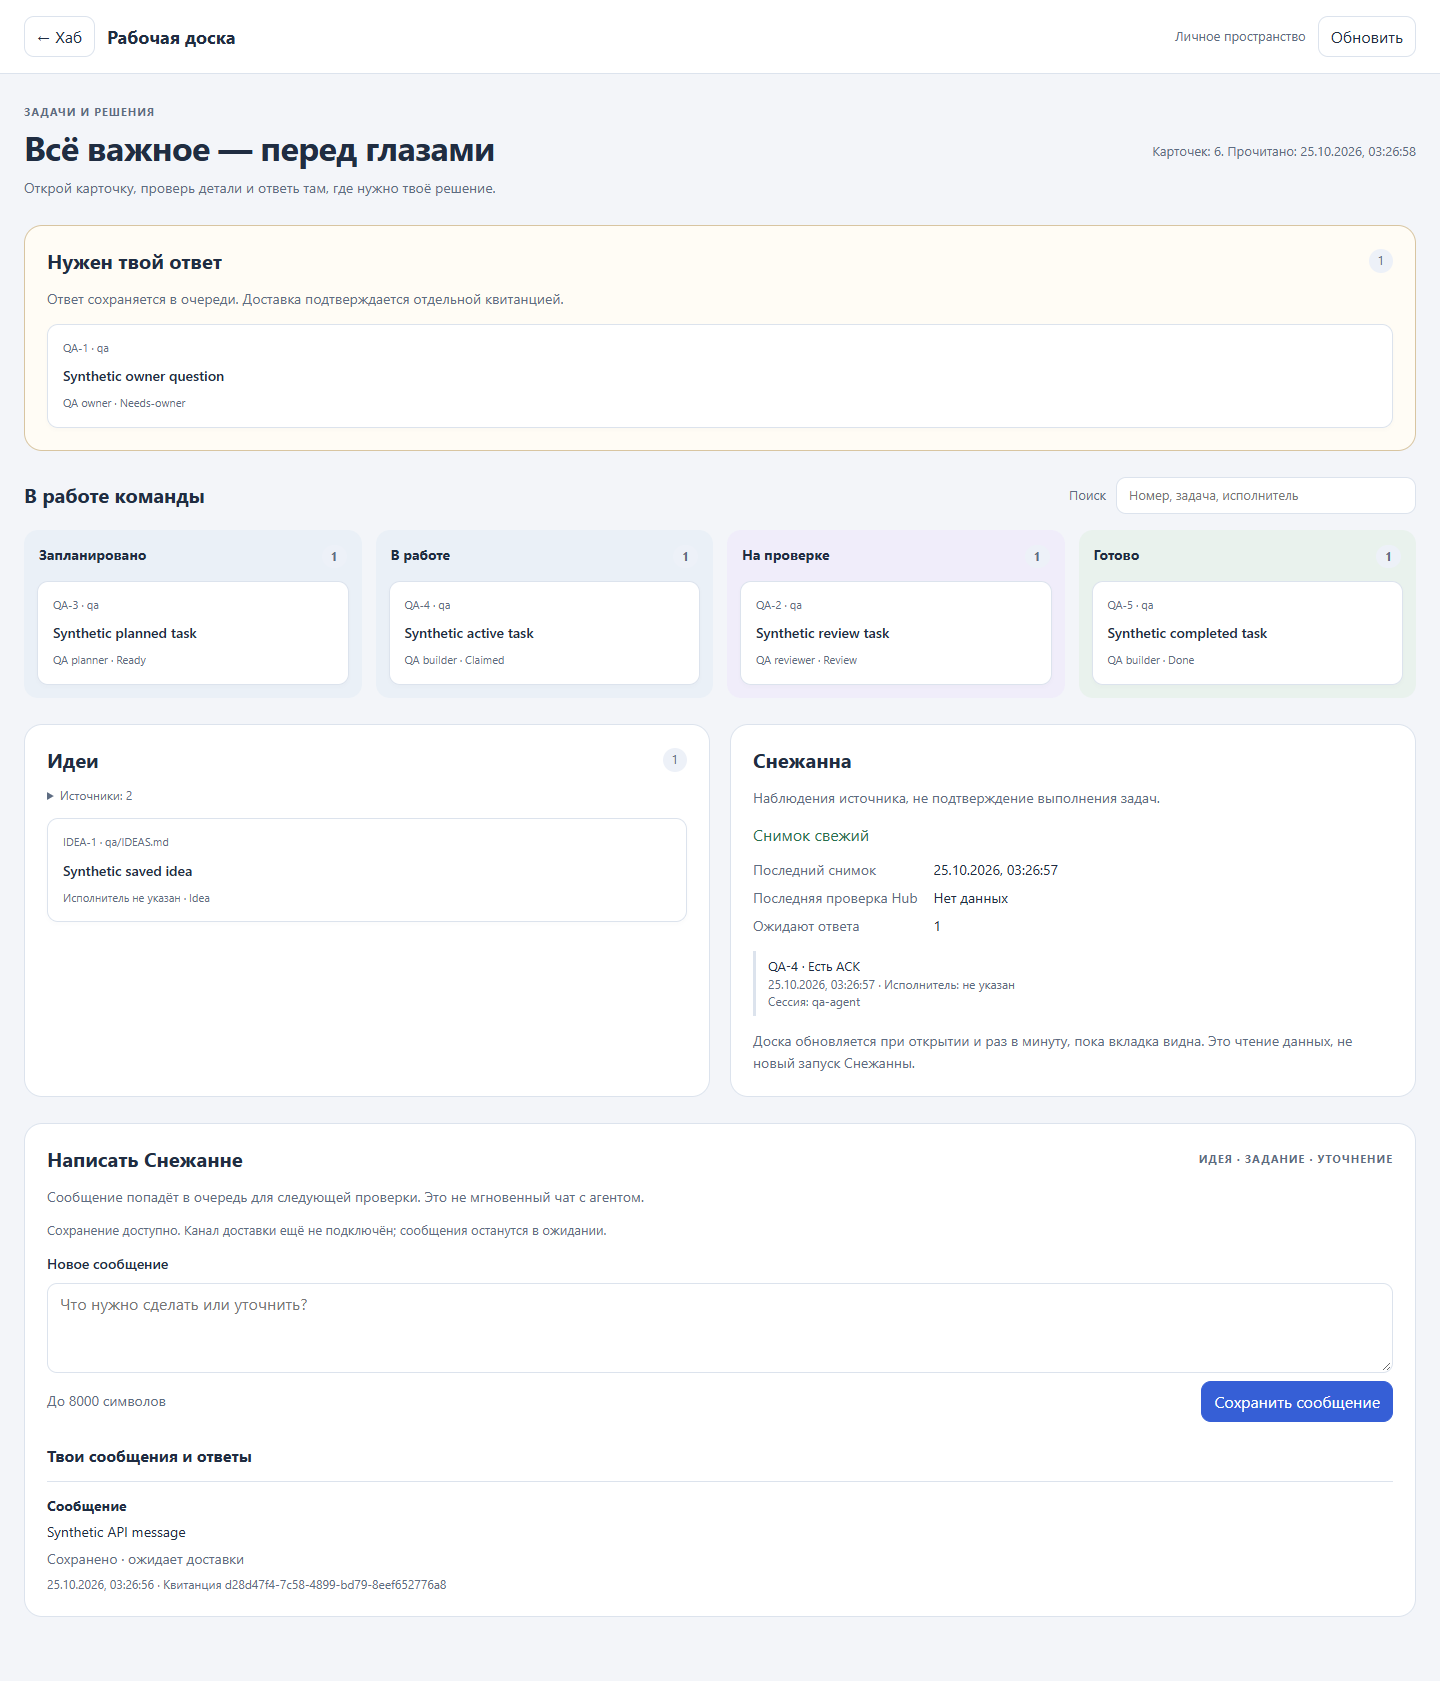
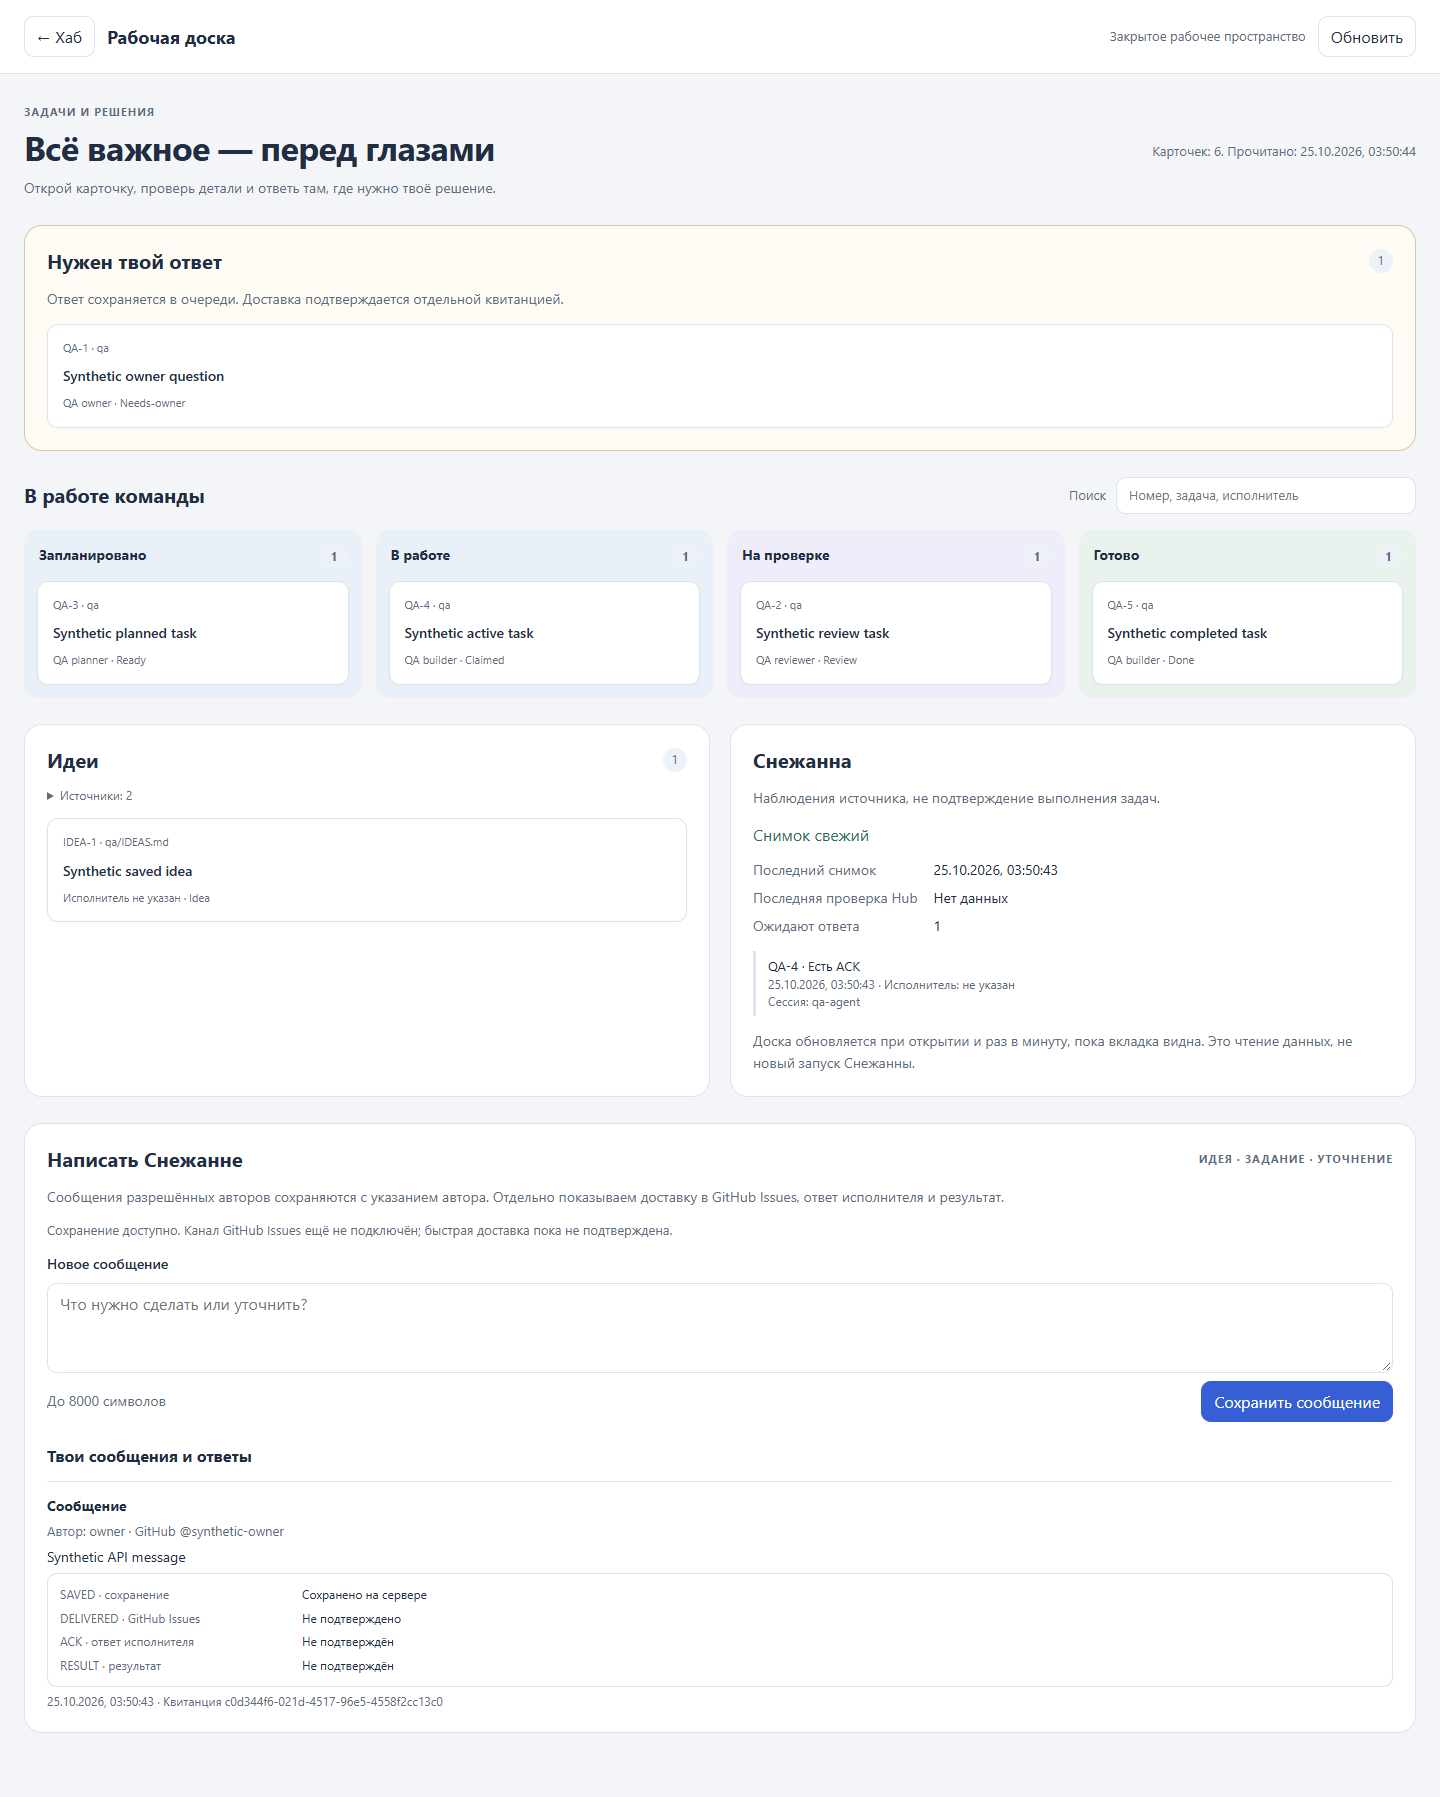
test: verify canonical Issues delivery and two-author isolation

diff --git a/docs/hub/QA.md b/docs/hub/QA.md
@@ -1,6 +1,57 @@
 # Independent Hub acceptance evidence
 
-Date: 2026-10-25. Reviewer: the dedicated QA subagent, separate from UI, ingestion, outbox and adapter authors. Product code tested through `3dfdfbf` (including the persisted outbox/route contract correction), with the harness committed as `281a2ea`. Root independently reran that browser harness at `281a2ea`: 14/14 checkpoints passed, and its refreshed synthetic screenshots are included in the following evidence commit. No production deployment or migration was performed by these QA runs.
+Date: 2026-10-25. Reviewer: the dedicated QA subagent, separate from UI, ingestion, outbox and adapter authors. Current canonical Issues implementation tested through `e49933a`: **22/22 independent browser acceptance checkpoints passed**. No production deployment, migration or real GitHub Issues write was performed by this QA run. Historical 14-check baseline evidence is retained below and does not supersede the current Issues contract.
+
+## Current canonical Issues acceptance
+
+The expanded harness uses actual `worker.fetch(request, env, ctx)`, real SQLite with migrations 0001/0002/0003, and actual server-side Issues delivery code scheduled through `ctx.waitUntil`. Only the GitHub wire responses are synthetic. Both authors are explicitly mapped by stable synthetic Hub user ID, username and GitHub login. A third account remains denied even when the legacy owner list contains its username. No real owner mapping is inferred or deployed.
+
+The synthetic GitHub fixture verifies new issue POSTs contain only the existing `idea` label, with no worker assignment or ready/execution label. Answers create comments on the configured existing task issue and leave its worker/cloud-state labels untouched. Delivery requires a separate exact readback. SAVED, DELIVERED, ACK and RESULT remain distinct; neither an Issue receipt nor a legacy Markdown receipt establishes an agent ACK/result.
+
+```text
+node --experimental-sqlite tests/hub-acceptance-browser.cjs
+PASS owner privacy before any source read
+PASS CSRF and payload validation
+PASS durable idempotency, conflict and owner isolation
+PASS two explicit stable-ID authors are attributed immutably; legacy third user and forged author denied
+PASS actual Worker ingestion renders board, review and historical ideas
+PASS modal focus, Escape and browser back
+PASS owner answer persisted in actual SQLite and shown after browser reload
+PASS mini-chat persistence/reload and owner text XSS safety
+PASS lost POST response retries same immutable id without duplicate SQL record
+PASS source version conflict does not overwrite or enqueue stale answer
+PASS UI keeps conflicting draft and accepts it only after fresh context reopening
+PASS actual Worker waitUntil delivers synthetic Issue comment; stale CAS and legacy blob cannot claim Issues delivery or ACK
+PASS saved state appears before background flush; bounded GET polling displays idea-only delivery without execution or ACK
+MEASURE natural-clock local synthetic click-to-visible-Issues-receipt 1467ms; no browser clock installed/advanced; NOT live GitHub latency
+PASS natural browser timer shows receipt within 10s with one POST and unknown ACK/result
+PASS second mapped author delivers under stored attribution and cannot read the first author queue
+PASS failure before GitHub write stays durable; visible Retry preserves original key and delivers once
+PASS expired durable intent reconciles accepted timeout under four concurrent leases without second GitHub POST
+PASS negative reconciliation is not proof of failed create: absent ambiguous issue stays durable with no repeat POST
+PASS definite remote conflict is persisted as conflict and never overwrites another edit or repeats POST
+PASS visible-tab periodic update and honest source-error/stale-telemetry states
+PASS 390px mobile layout and modal fit without horizontal overflow
+PASS authorization loss clears board/outbox/telemetry and rejects delayed private response
+RESULT 22 passed; synthetic GitHub only; browser board requests 12
+```
+
+The **1467ms** measurement uses a separate browser context without clock instrumentation and includes the natural one-second foreground polling delay. It measures the local synthetic path only. Another scenario advances a simulated clock to test polling deterministically; its wall execution duration is explicitly diagnostic and is not user-perceived or live latency. Neither number measures Cloudflare or real GitHub network latency.
+
+The latest subpath traversal still passed **63/63**, including the revised explicit GitHub Issues not-configured state. CI runs the expanded harness through its existing acceptance command; the new `hub-acceptance-issues-fixture.cjs` never contacts GitHub.
+
+Independent review found two further security/state issues, both corrected by the implementation owners and verified in this harness:
+
+- An explicit author map originally fell through to the legacy username allowlist for unmatched users. Explicit mapping is now authoritative and requires both stable ID and username; stale third users and forged author fields are denied.
+- A definite remote body/destination conflict originally returned `conflict` but persisted `delivery_uncertain`. The persisted state now remains `conflict`, retains its delivery intent and is not automatically reclaimed. Genuine timeouts and absent-marker reconciliation remain uncertain and never authorize a second POST.
+
+The real SQLite race test starts four competing flushes after a simulated lease expiration and confirms one reconciliation winner with only the original GitHub POST. A create that may not have arrived is deliberately **not** resent after negative reads. The visible Retry button submits the original persisted idempotency key and payload; it does not fabricate a new message ID. Confirmed delivery and conflicts do not expose that retry action.
+
+[Synthetic Issues receipt with second-author attribution and unknown ACK/result](../../artifacts/hub/issues-receipt.png)
+
+## Historical baseline
+
+Product code was initially tested through `3dfdfbf`, with the first harness committed as `281a2ea`. Root independently reran that 14-check baseline. Its receipt-import scenario was a local Markdown proof only; it is retained as historical evidence and is now explicitly rejected as canonical Issues delivery by the expanded test.
 
 ## Environment and proof boundary
 
@@ -78,7 +129,7 @@ The CI workflow now runs the UI contract and the actual-Worker browser acceptanc
 
 ## Remaining acceptance dependencies
 
-Production authenticated UI, approved D1 migration/rollout, the outbox extraction and receipt-import transport for the existing scheduled writer, routing to the correct existing executor, and a live executor ACK are not covered by this report. No timer, Claude/Doctor session, production security setting, secret or token permission was changed. Any separate live GitHub CAS experiment must be reported as that distinct leg, not as full browser-to-agent delivery.
+Production authenticated UI, approved D1 migration/rollout, activation of a separately authorized narrowly scoped Issues credential, verified real owner mappings, real GitHub Issues delivery and a live executor ACK/result remain outside this report's proof. The new `ctx.waitUntil` Issues transport was tested locally with synthetic responses; it was not activated in production. The earlier Markdown CAS experiment is a separate historical leg and cannot count as canonical Issues delivery. No timer, Claude/Doctor session, production security setting, secret or token permission was changed by QA.
 
 ## Self-check
 
